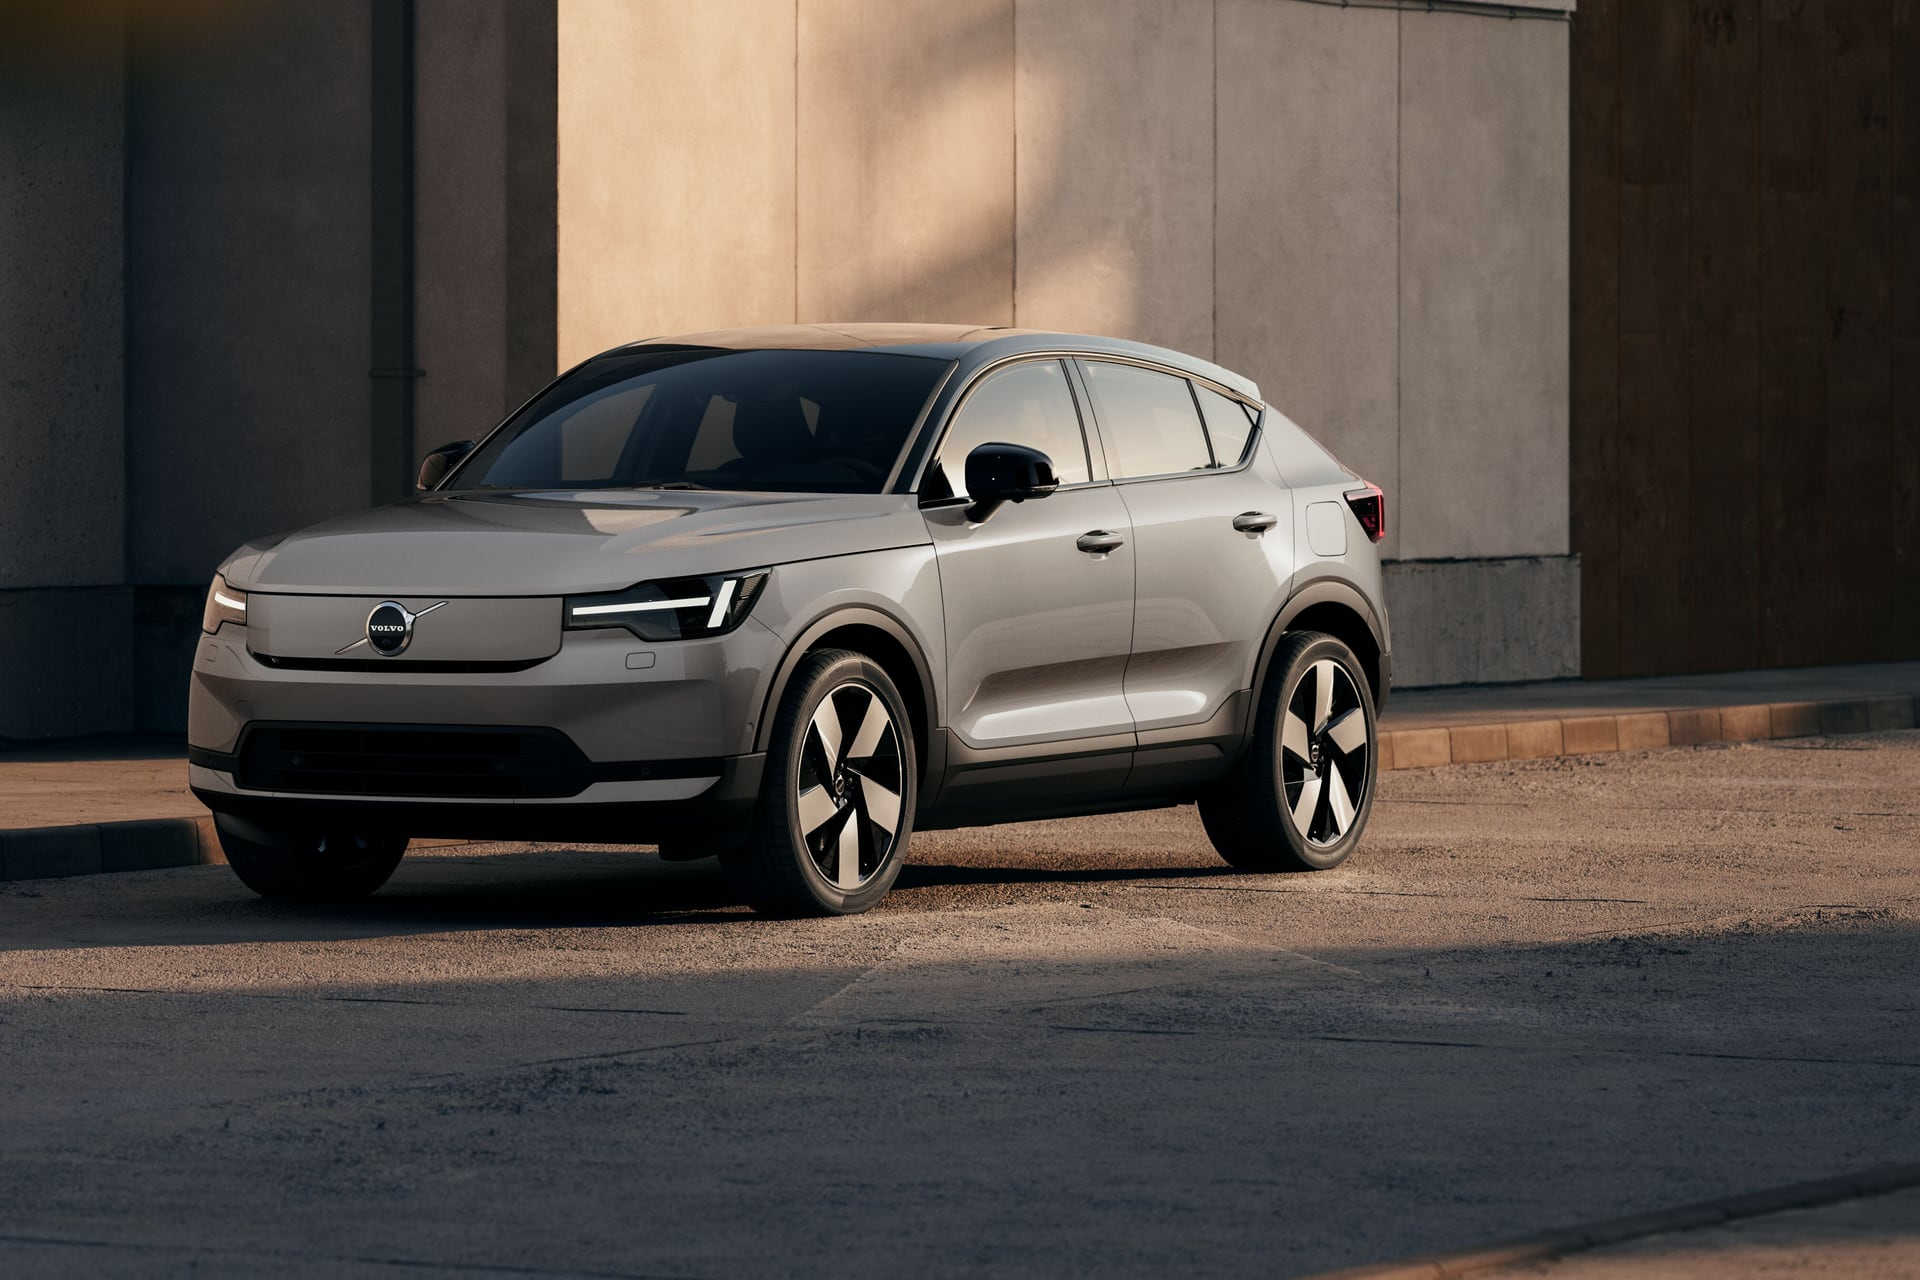
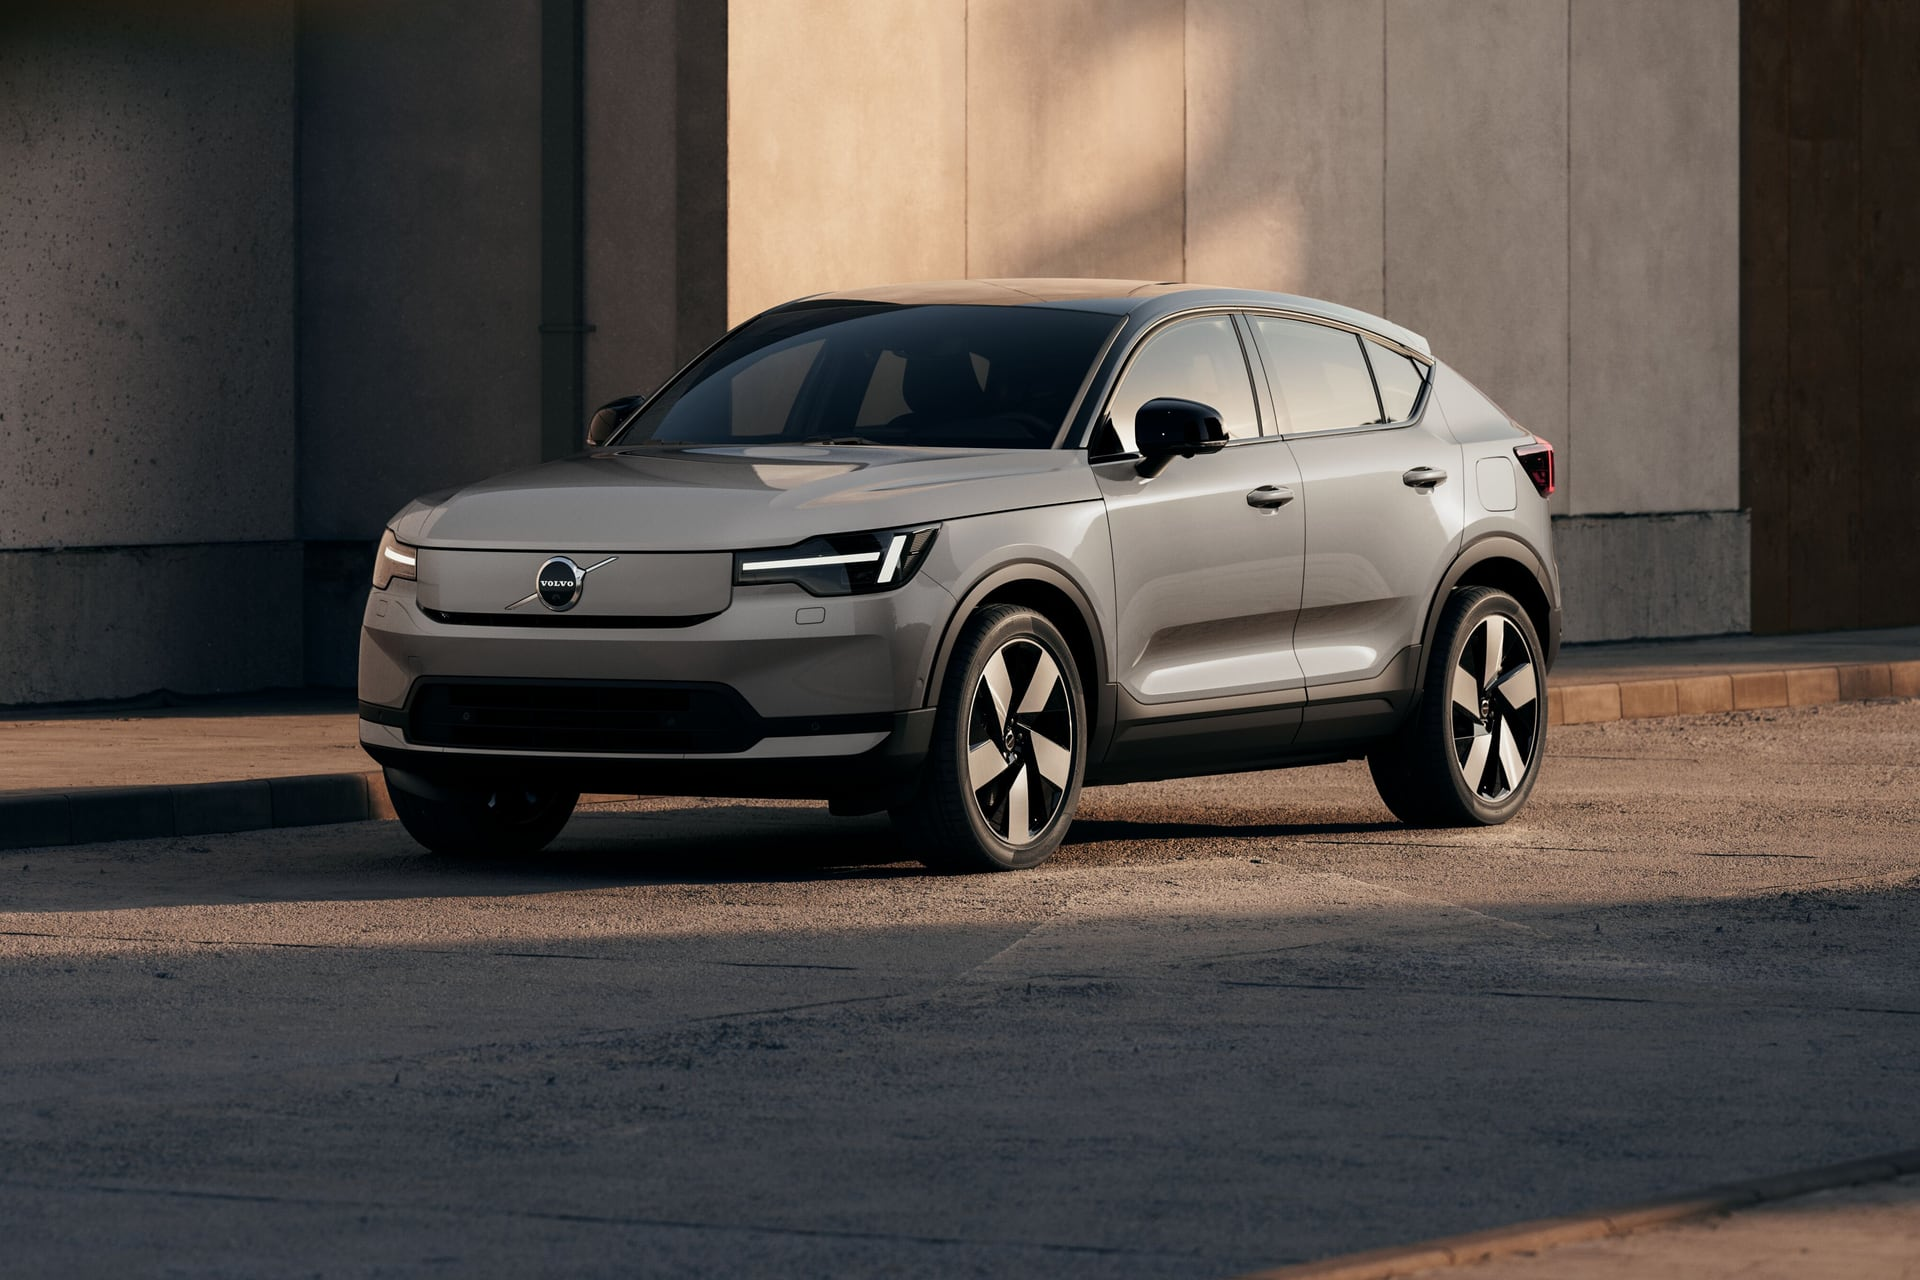
Tighten the Volvo 40 reviews and centre the EC40 photo

diff --git a/modules/data/carReviews.ts b/modules/data/carReviews.ts
@@ -4385,7 +4385,7 @@ const carReviews: Readonly<Record<string, CarReview>> = {
       'Volvo EC40 Twin Motor er rennilegur jepplingur með sportlegu útliti. Hann er sniðinn fyrir þá sem vilja fáguð gæði Volvo, háa sætisstöðu og öruggt grip, en kjósa djarfara og straumlínulagaðra snið en hefðbundnir fjölskyldubílar bjóða upp á.',
       'Fjórhjóladrifið og ríflegt aflið koma sér sérlega vel í snjó og hálku. Bíllinn drífur lengra en flestir í sínum verðflokki, sem dugar léttilega á milli landshluta jafnvel þótt vetrarkuldinn éti hluta af drægninni. Á ferðalögum utan bæjarins hleður hann líka fremur hratt, þótt það sé aðeins í meðallagi á þessu verði.',
       'Bíllinn gefur fátt eftir í akstri eða tækni og helsti ókosturinn er hár verðmiði. Ef þú ekur aðallega innanbæjar og þarft ekki jafn mikla drægni getur BMW iX1 xDrive 30 verið fýsilegur valkostur, enda er hann 700.000 kr. ódýrari, þótt það komi á kostnað drægninnar og þýði um 30% lengri hleðslustopp.',
-      'Uppfærður EC40, P8 Performance, er væntanlegur snemma 2027 með nýju andliti, stærri skjá og aðeins meira afli, en verður líklega töluvert dýrari. Fyrir þá sem vilja kraftmikinn lúxusjeppling sem svíkur mann ekki á langferðum í vetrarveðri er EC40 afar heilsteypt val.',
+      'Uppfærður EC40, P8 Performance, er væntanlegur snemma 2027 með nýju andliti, stærri skjá og aðeins meira afli, en verðið hér á landi liggur ekki fyrir. Fyrir þá sem vilja kraftmikinn lúxusjeppling sem svíkur mann ekki á langferðum í vetrarveðri er EC40 afar heilsteypt val.',
     ],
     questions: [
       'Af hverju hann frekar en nýi EX40?',
@@ -4405,8 +4405,8 @@ const carReviews: Readonly<Record<string, CarReview>> = {
   'volvo-ec40-p8-performance': {
     paragraphs: [
       'Volvo EC40 P8 Performance er uppfærður EC40: jepplingur með hallandi þaklínu, sami bíll og EX40 að framan en sportlegri að aftan. Hann fékk í haust nýtt andlit, Matrix LED-ljós og stærri skjá, 11,2 tommu í stað 9, og er væntanlegur snemma 2027. Hann hentar ef þú vilt nettan bíl með meiri stíl en kassalaga jepplingur býður.',
-      'Hann er sneggri og aflmeiri en flestir á svipuðu verði, og fjórhjóladrifið gerir hann öruggan í vetrarfærð.',
-      'Gallinn er verðið, sem er enn áætlað. Miðað við það hleður hann hægar en flestir á svipuðu verði, og hallandi þakið tekur af skottinu og höfuðplássinu aftur í. Skoda Enyaq RS er 710.000 kr. ódýrari og drífur álíka langt. Og ef þú vilt bíl strax er EC40 Twin Motor, sem hann leysir af hólmi, 1.300.000 kr. ódýrari og nánast jafn snöggur og langdrægur.',
+      'Hann er sneggri og aflmeiri en flestir á svipuðu verði, svo hann á nóg inni við framúrakstur á þjóðveginum.',
+      'Verðið er enn áætlað, en miðað við það hleður hann hægar en flestir á svipuðu verði, og hallandi þakið tekur af skottinu og höfuðplássinu aftur í. Skoda Enyaq RS er 710.000 kr. ódýrari, drífur álíka langt og er með mun stærra skott. Og ef þú vilt bíl strax er EC40 Twin Motor, sem hann leysir af hólmi, 1.300.000 kr. ódýrari, nánast jafn snöggur og drífur jafn langt.',
       'Nýi EC40 er fyrir þann sem vill útlitið og nýjustu tæknina og getur beðið, en sá eldri gefur meira fyrir peninginn á meðan hann fæst.',
     ],
     questions: [
@@ -4470,7 +4470,7 @@ const carReviews: Readonly<Record<string, CarReview>> = {
       'Volvo EX40 Recharge Twin er meðalstór jepplingur, sami bíll og hét áður XC40 Recharge: kassalaga, hár í sæti og með rólegu, skandinavísku innréttinguna sem Volvo er þekkt fyrir. Hann hentar ef þú vilt þéttan og öruggan fjölskyldubíl sem á samt nóg inni þegar þú stígur á gjöfina.',
       'Og það á hann. Hann er sneggri og aflmeiri en flestir á svipuðu verði, og krókurinn ber meira en hjá flestum keppinautum hans, svo hjólhýsið eða stóra kerran er ekkert mál.',
       'Gallinn er plássið aftast: skottið er með þeim minnstu miðað við keppinautana, og þú borgar meira á hvern km drægni en hjá flestum þeirra. BMW iX1 xDrive 30 er 700.000 kr. ódýrari og með 49 l stærra skott, en hann drífur 99 km styttra og hleðslustoppin eru um 25% lengri.',
-      'Uppfærður EX40, P8 Performance, er væntanlegur snemma 2027 með nýju andliti, stærri skjá og aðeins meira afli, en verður líklega töluvert dýrari. EX40 er bíllinn fyrir þann sem vill kraft og krók í nettum pakka og getur lifað með minna skotti.',
+      'Uppfærður EX40, P8 Performance, er væntanlegur snemma 2027 með nýju andliti, stærri skjá og aðeins meira afli, en verðið hér á landi liggur ekki fyrir. EX40 er bíllinn fyrir þann sem vill kraft og krók í nettum pakka og getur lifað með minna skotti.',
     ],
     questions: [
       'Borgar sig að bíða eftir nýja EX40?',
@@ -4489,8 +4489,8 @@ const carReviews: Readonly<Record<string, CarReview>> = {
   'volvo-ex40-p8-performance': {
     paragraphs: [
       'Volvo EX40 P8 Performance er uppfærður EX40: nettur, kassalaga jepplingur sem fékk í haust nýtt andlit, Matrix LED-ljós og stærri skjá, 11,2 tommu í stað 9. Hann er væntanlegur snemma 2027. Hann hentar ef þú vilt lítinn fjölskyldubíl sem situr hátt en á samt nóg inni þegar þú stígur á gjöfina.',
-      'Og það á hann: hann er sneggri og aflmeiri en flestir á svipuðu verði. Með fjórhjóladrifi og krók fyrir allt að 1.800 kg er hann líka fínn í vetrarfærð og með kerruna aftan í.',
-      'Gallinn er verðið, sem er enn áætlað. Miðað við það drífur hann styttra og hleður hægar en flestir á svipuðu verði, og skottið er lítið. Skoda Enyaq RS er 710.000 kr. ódýrari og drífur álíka langt. Og ef þú vilt bíl strax er EX40 Recharge Twin, sem hann leysir af hólmi, 1.300.000 kr. ódýrari og nánast jafn snöggur og langdrægur.',
+      'Og það á hann: hann er sneggri og aflmeiri en flestir á svipuðu verði, og krókurinn ber allt að 1.800 kg, svo kerran eða hjólhýsið er ekkert mál.',
+      'Verðið er enn áætlað, en miðað við það drífur hann styttra og hleður hægar en flestir á svipuðu verði, og skottið er lítið. Skoda Enyaq RS er 710.000 kr. ódýrari, drífur álíka langt og er með mun stærra skott. Og ef þú vilt bíl strax er EX40 Recharge Twin, sem hann leysir af hólmi, 1.300.000 kr. ódýrari og nánast jafn snöggur og langdrægur.',
       'Nýi EX40 er fyrir þann sem vill nýjasta útlitið og tæknina og getur beðið, en sá eldri gefur meira fyrir peninginn á meðan hann fæst.',
     ],
     questions: [
